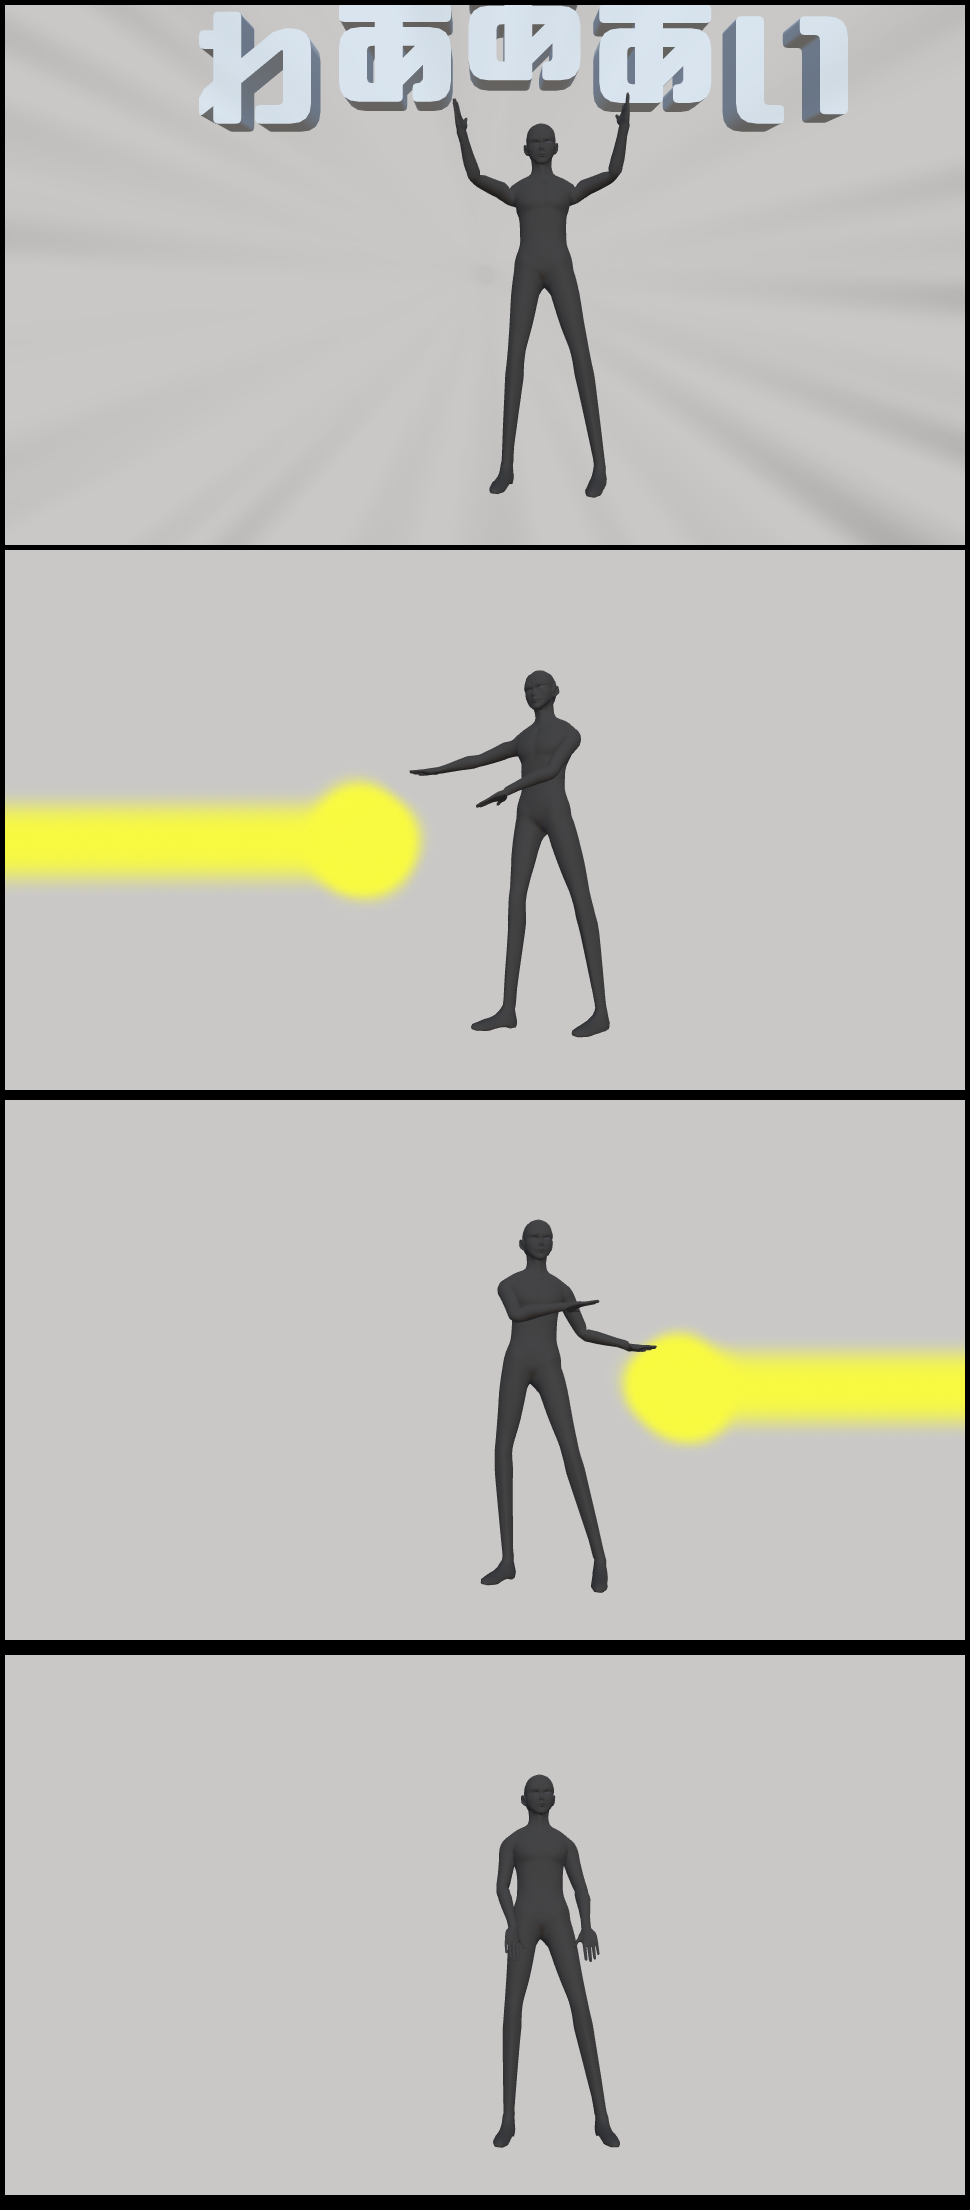
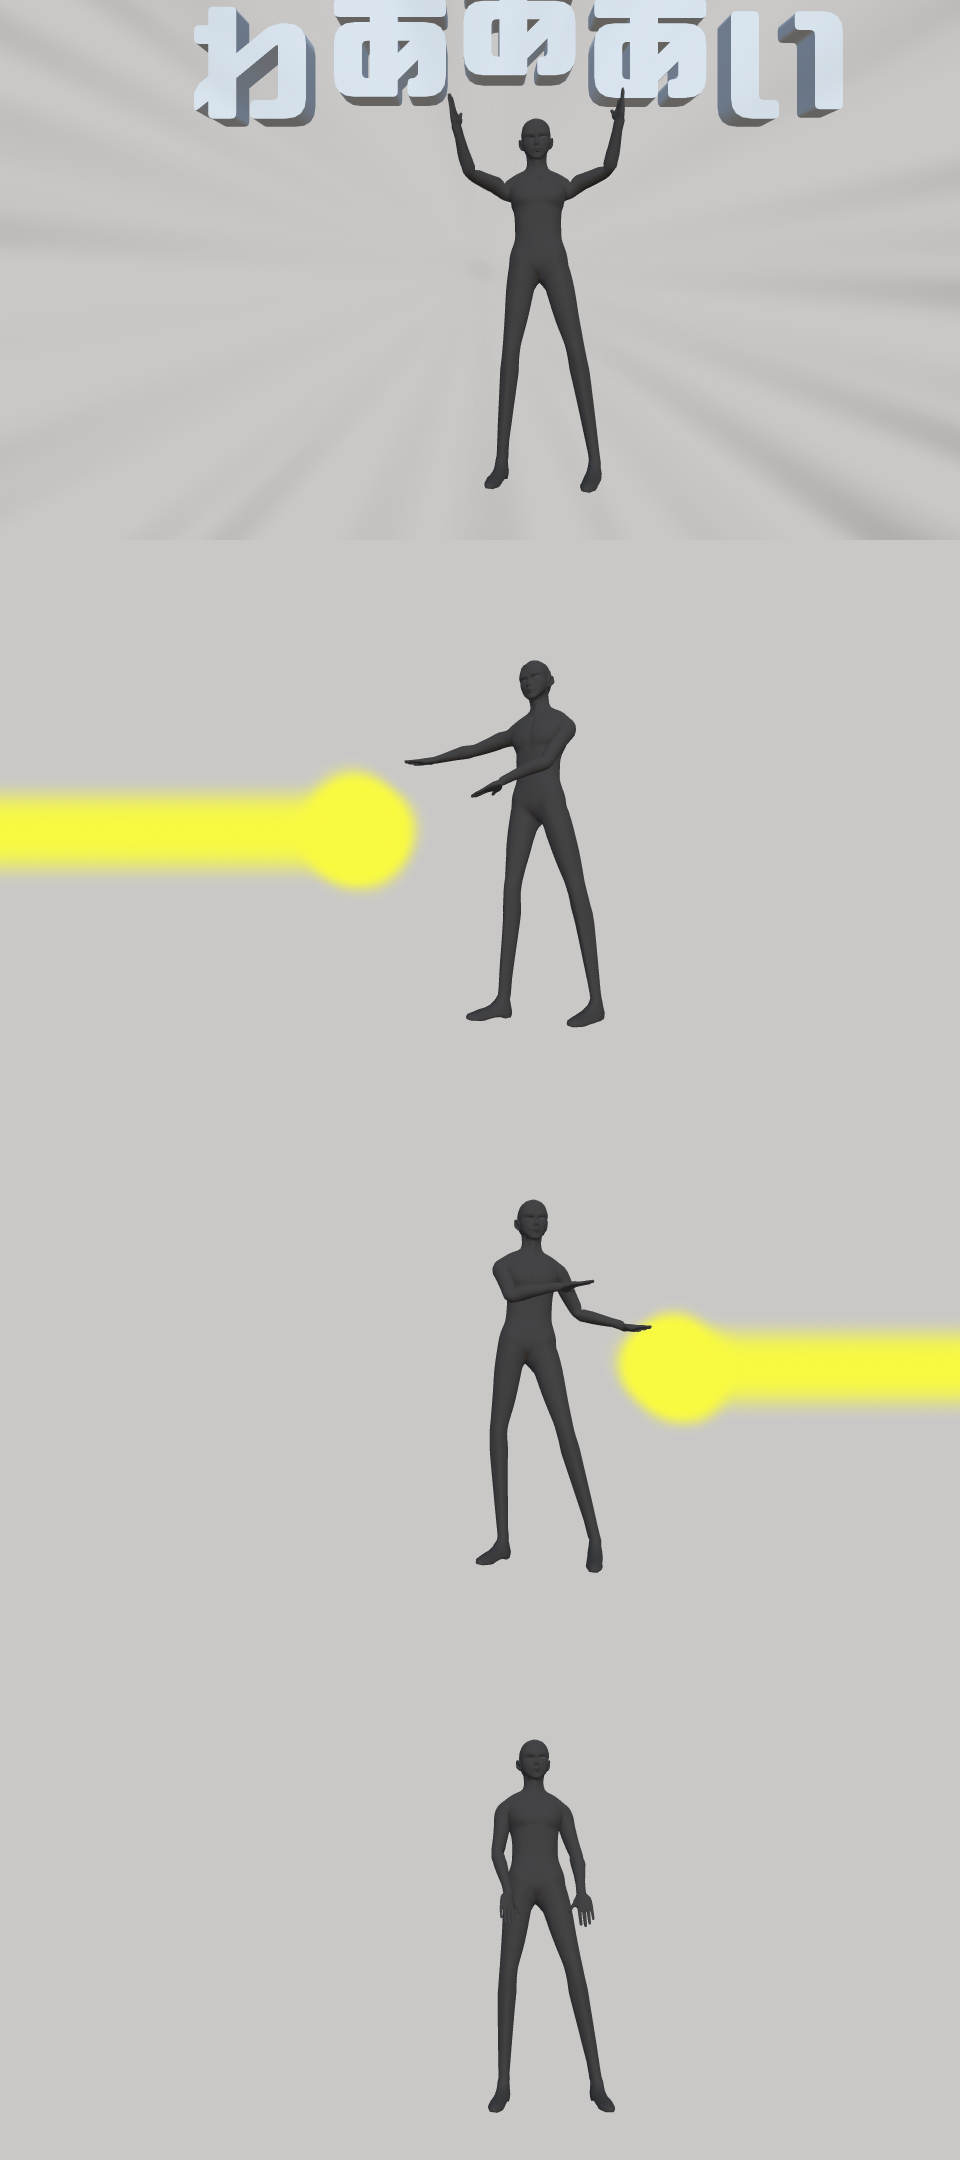
並べ方変えた

diff --git a/main.py b/main.py
@@ -6,8 +6,8 @@ from numba import jit
 imgWidth = 960
 imgHeight = 540
 wakuWid = 5
-Height = imgHeight * 4 + wakuWid * 6
-Width = imgWidth + wakuWid * 2
+Height = imgHeight * 4
+Width = imgWidth
 
 path = r"./SS"
 
@@ -20,16 +20,17 @@ def imgMasking(base, mask, startX, startY):
     print(mask.shape)"""
     for i in range(mask.shape[0]):
         for j in range(mask.shape[1]):
-            print("mask:" + str(i) + "," + str(j))
-            print("base:" + str(startX) + "," + str(startY) + "\n")
+            """print("mask:" + str(i) + "," + str(j))
+            print("base:" + str(startX) + "," + str(startY) + "\n")"""
             base[startX, startY] = mask[i, j]
             startY += 1
         startY = y
         startX += 1
+    return startX
 
 
 if __name__ == "__main__":
-    koma = cv2.imread("./Koma/koma_half_black.png")
+    koma = np.empty((Height, Width, 3),np.uint8)
     print(koma.shape)
 
     dir = os.listdir(path)
@@ -46,17 +47,15 @@ if __name__ == "__main__":
         limit += 1
 
     count = 0
-    startX = int(wakuWid)
-    startY = int(wakuWid)
+    startX = 0
+    startY = 0
     for im in range(len(img_list)):
         print("aaa")
-        imgMasking(koma, img_list[im], startX, startY)
+        startX = imgMasking(koma, img_list[im], startX, startY)
+        print(startX)
         cv2.imshow(str(im), koma)
         cv2.waitKey(0)
         cv2.destroyAllWindows()
-        count += 1
-        startX += imgHeight + wakuWid * count
-        print(str(count) + ":" + str(startX))
 
     cv2.imshow("result", koma)
     cv2.imwrite("result.png", koma)
